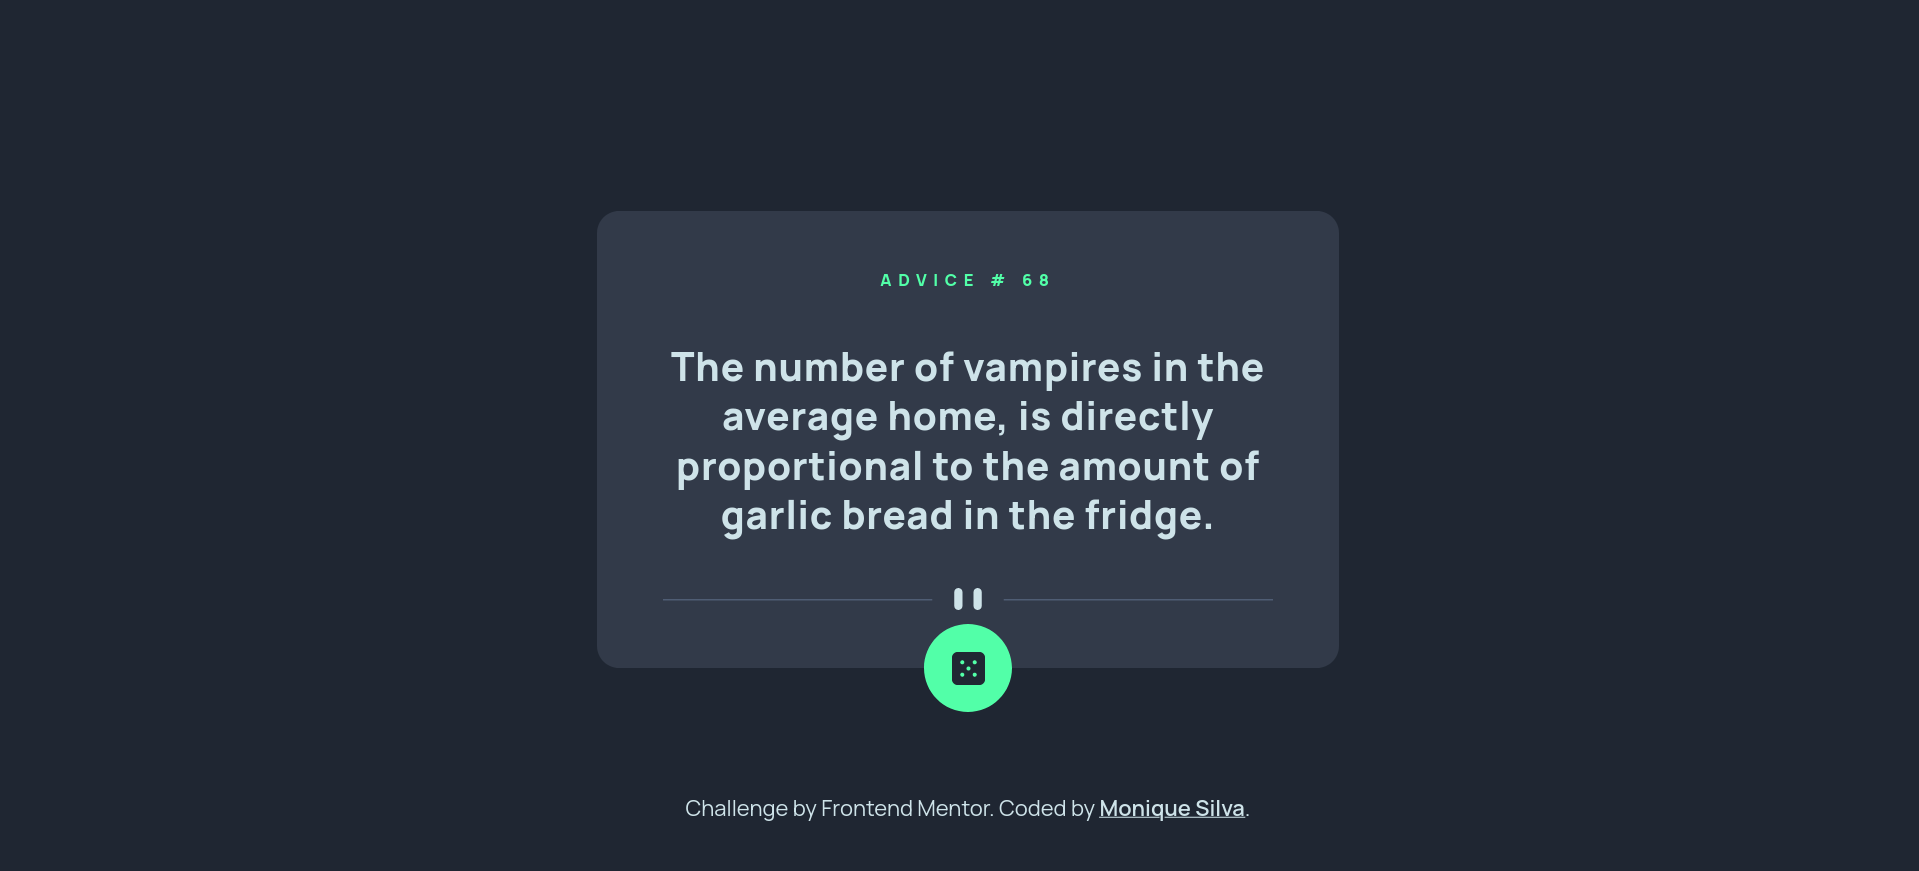
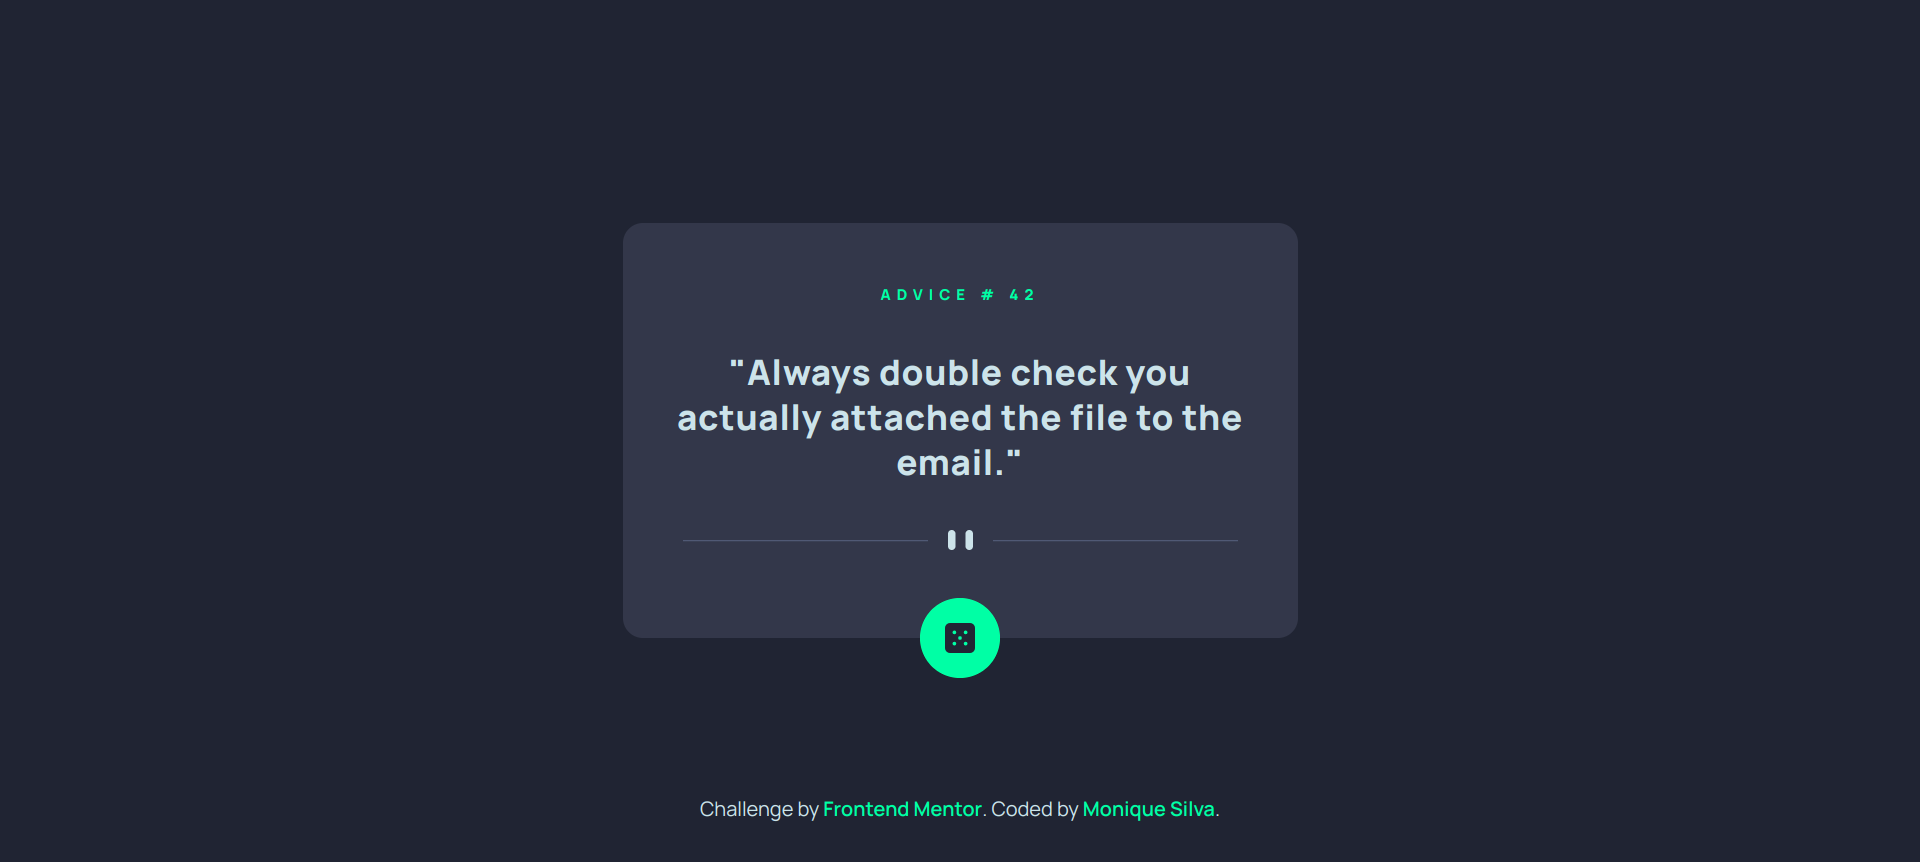
feat: update

diff --git a/src/components/AdviceCard.vue b/src/components/AdviceCard.vue
@@ -1,5 +1,5 @@
 <template>
-  <article class="relative flex flex-col justify-center items-center gap-y-9 py-12 w-11/12 bg-gray-blue rounded-2xl font-manrope px-[32px] md:py-0 md:h-[332px] md:w-[540px]">
+  <article class="relative flex flex-col justify-center items-center gap-y-9 py-12 w-11/12 bg-gray-blue rounded-2xl font-manrope px-[32px] md:py-0 md:pb-5 md:h-[332px] md:w-[540px]">
       <h1 class="text-neon-green uppercase tracking-[0.4em] text-xs font-extrabold">Advice # {{ id }}</h1>
       <p class="text-[22px] text-center text-light-blue font-extrabold tracking-[0.02em] transition duration-300 ease-out opacity-0 md:text-[28px] md:leading-9" :class="{'opacity-100': advice}">"{{ advice }}"</p>
       <img src="/assets/pattern-divider-desktop.svg" alt="Pattern">

diff --git a/src/components/AdviceFooter.vue b/src/components/AdviceFooter.vue
@@ -1,7 +1,7 @@
 <template>
   <footer class="absolute bottom-10 text-light-blue font-manrope text-sm md:text-base text-center px-4">
-    Challenge by <a href="https://www.frontendmentor.io?ref=challenge" target="_blank">Frontend Mentor</a>. 
-    Coded by <a href="https://github.com/moniquedsilva" target="_blank" class="font-semibold underline">Monique Silva</a>.
+    Challenge by <a href="https://www.frontendmentor.io?ref=challenge" target="_blank" class="font-semibold text-neon-green transition-colors ease-out hover:text-light-blue">Frontend Mentor</a>. 
+    Coded by <a href="https://github.com/moniquedsilva" target="_blank" class="font-semibold text-neon-green transition-colors ease-out hover:text-light-blue">Monique Silva</a>.
   </footer>
 </template>
 

diff --git a/README.md b/README.md
@@ -8,7 +8,6 @@ This is a solution to the [Advice generator app challenge on Frontend Mentor](ht
   - [The challenge](#the-challenge)
   - [Screenshot](#screenshot)
   - [Links](#links)
-- [My process](#my-process)
   - [Built with](#built-with)
 - [Author](#author)
 
